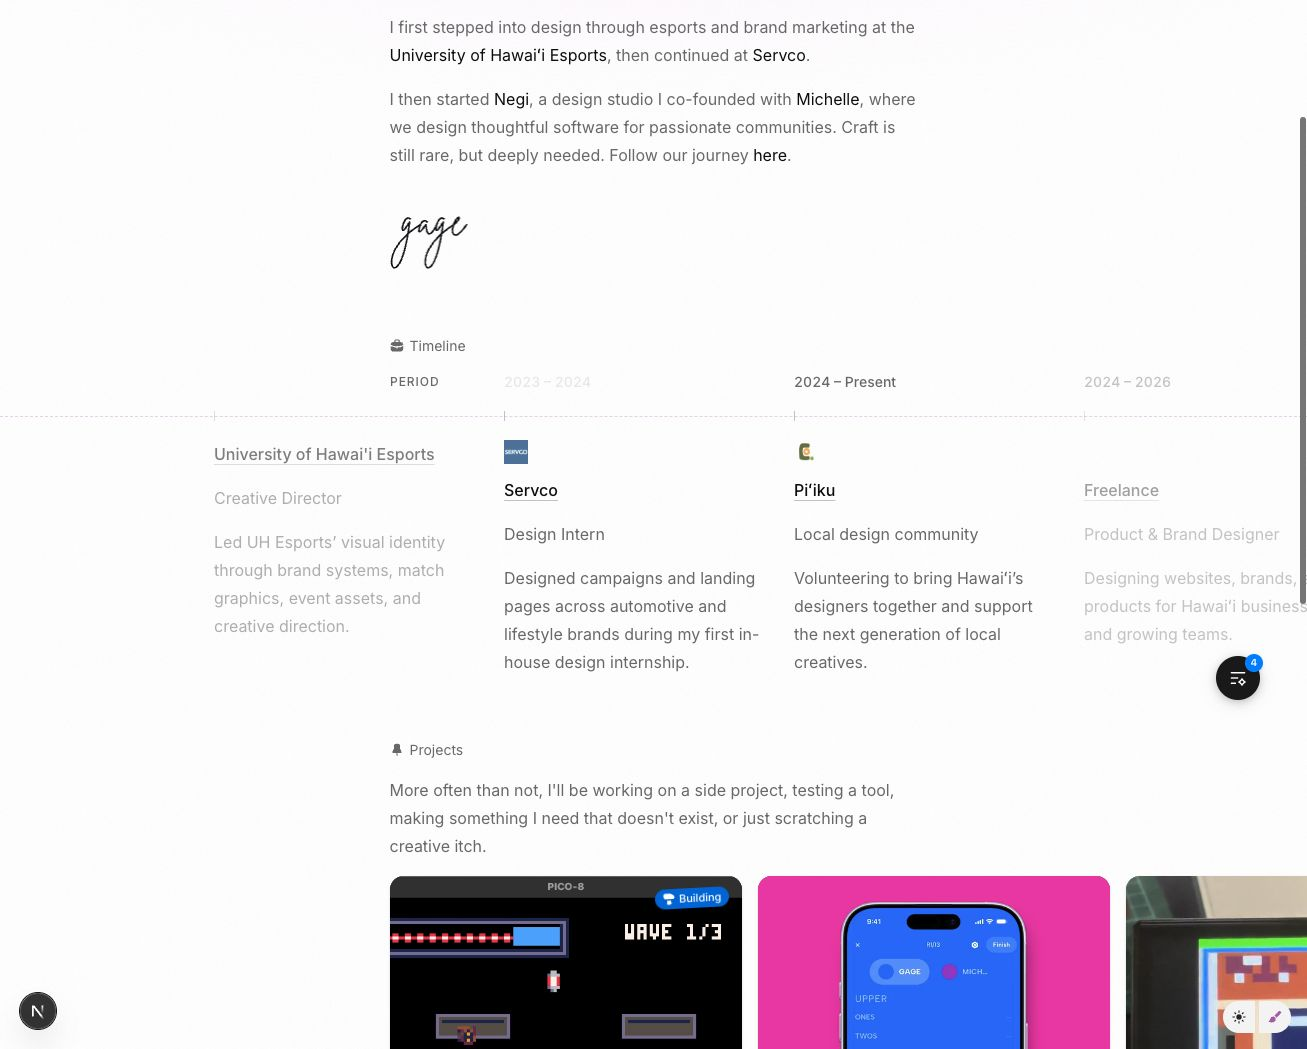
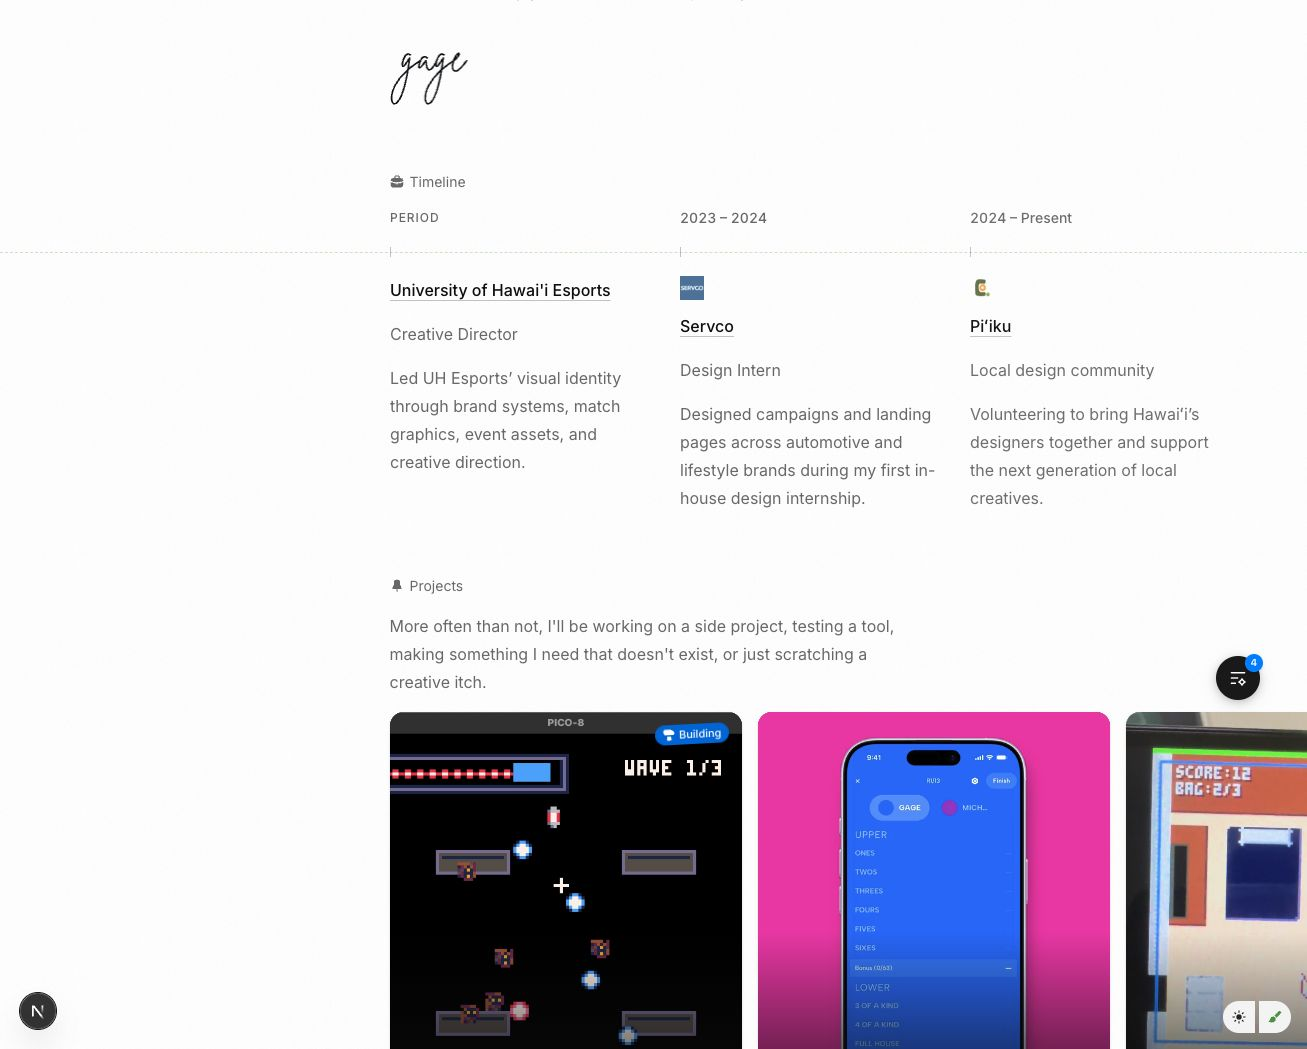
Align the timeline start with the content edge

diff --git a/components/lifeline/use-lifeline-scroll.ts b/components/lifeline/use-lifeline-scroll.ts
@@ -433,6 +433,12 @@ export function useLifelineScroll(
       startInset.current = LIFELINE_DEFAULT_START_INSET
     }
 
+    // The viewport-wide timeline starts its first card at the content edge.
+    // Its label remains pinned independently, so it needs no reserved column.
+    if (options.fullWidthContent) {
+      startInset.current -= LIFELINE_STICKY_SHIELD_WIDTH
+    }
+
     if (followChrome && navRight !== null) {
       endInset.current = navRight
     } else {
@@ -455,7 +461,7 @@ export function useLifelineScroll(
     maxTranslate.current = max
 
     return max
-  }, [markerCount, resolveMode])
+  }, [markerCount, options.fullWidthContent, resolveMode])
 
   useLayoutEffect(() => {
     markerRefs.current.length = markerCount
